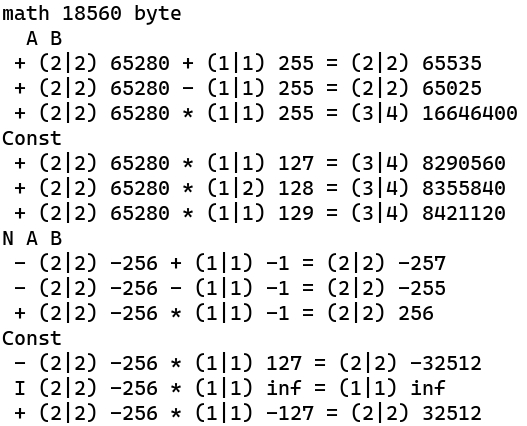
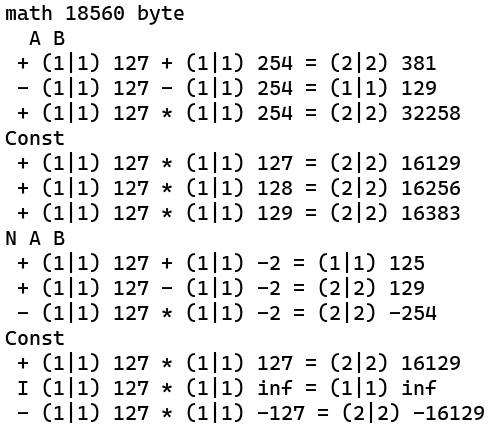
v13.8

Changed region(s): [[0.0, 0.0, 0.994, 1.0], [0.3313, 0.5798, 0.8735, 0.7629]]

diff --git a/math.c b/math.c
@@ -12,120 +12,110 @@ void FInit(anu x, anu y, an r, anu c, an a) { while(x--) *--r = 0;
   c = (c > y) ? y : c; while(c--) *r++ = *a++; }
 void FAddr(anu y, As* r, anu c, As* a) {
   c = (c > y) ? y : c; while(c--) *r++ = *a++; }
-void FSWAP(anu l, an r, an a) { Mat.a = a + l; Mat.r = r + l;
-  Mat.z = *a++; *r++ = (l) ? *Mat.a--:Mat.z; *Mat.r-- = Mat.z; l >>= 1;
-  while(l--) { Mat.z = *a++; *r++ = *Mat.a--; *Mat.r-- = Mat.z; } }
-void FNEG(anu l, an r) { Mat.z = 1; do { Mat.z = !(*r = ~*r + Mat.z); r++; } while(l--); }
-void FNEG2(anu l, an r, an a) { Mat.z = 1; do { Mat.z = !(*r++ = ~*a++ + Mat.z); } while(l--); }
+void FSWAP(anu l, an r, an a) { Mat.i = l; Mat.r = r; Mat.a = a; Mat.be = Mat.r + Mat.i;
+  Mat.ae = Mat.a + Mat.i; Mat.t = *Mat.a++; *Mat.r++ = Mat.i ? *Mat.ae--:Mat.t; *Mat.be-- = Mat.t;
+  Mat.i >>= 1; while(Mat.i--) { Mat.t = *Mat.a++; *Mat.r++ = *Mat.ae--; *Mat.be-- = Mat.t; } }
 
-anu FLD(an r, anu D) { *r = D; Mat.N = (Mat.Nim && (D & 128)) ? 255:0;
-  Mat.F = (D) ? (Mat.Nim && (D == 128)) ? 2:0:1; return 0; }
-anu FLVD(an r, anu Dl, anu Dh) { *r++ = Dl; *r = Dh; Mat.N = (Mat.Nim && (Dh & 128)) ? 255:0;
-  if ((Mat.F = (Dl | Dh) ? (!Dl && Mat.Nim && (Dh == 128)) ? 2:0:1)) { *--r = Dh; return 0; }
-  return (((Dl == 128) ? 1: (Mat.Nim) ? (((Dl^Mat.N)&128)|(Dh != Mat.N)):(Dh ? 1:0)) != 0); }
-anu FMOV(anu l, an r, an a) { Mat.F = 0; Mat.C = 0;
-  Mat.y = *(Mat.r = a + l); Mat.N = (Mat.Nim && (Mat.y & 128)) ? 255:0; Mat.z = l;
-  if (!Mat.y || (Mat.Nim && Mat.y == 128)) { Mat.a = a; while(l && !*Mat.a++) { l--; }
-    if ((Mat.F = l ? 0: Mat.y ? 2:1)) { *r = Mat.y; return 0; } l = Mat.z; }
-  while(((Mat.y = *Mat.r--) == Mat.N) && (Mat.Nim ? !((*Mat.r ^ Mat.N) & 128):1) && l) { l--; }
-  Mat.z = l; if (Mat.y != 128) Mat.y = 0; else { while(!*Mat.r-- && l) { l--; }
-    Mat.y = (Mat.C = (Mat.z == 255)) ? 0:l ? 0:1;
-    if ((Mat.F = (Mat.C && !l) << 1)) { *r = 128; return 0; } l = Mat.z; }
-  if (r < a) do *r++ = *a++; while(l--); else { Mat.r = (r += l + 1); Mat.a = (a += l + 1);
-    do *--Mat.r = *--Mat.a; while(l--); } if (Mat.y) { *r = Mat.N; Mat.z++; } return Mat.z; }
-anu FCOLD(anu f, anu l, an r, an a) { l = FMOV(l, r, a); Mat.z = ((Mat.x = l)) ? 2:1;
-  while((Mat.x >>= 1)) { Mat.z <<= 1; } Mat.r = r; r += l; Mat.x = --Mat.z - l; Mat.y = Mat.N;
+anu FMOV(anu l, an r, an a) { Mat.i = l; Mat.r = r; Mat.a = a;
+  Mat.F = 0; Mat.j = Mat.i; Mat.k = Mat.i; if (r < a) do *Mat.r++ = *Mat.a++; while(Mat.j--);
+  else { Mat.be = (Mat.r += Mat.i); Mat.ae = Mat.a + Mat.i; do *Mat.be-- = *Mat.ae--; while(Mat.j--); }
+  Mat.x = *--Mat.r; Mat.N = (Mat.Nim && (Mat.x & 128)) ? 255:0; while(Mat.i && !*--Mat.r) { Mat.i--; }
+  if (!Mat.i) { if (!Mat.x) Mat.F++; else if (Mat.Nim && Mat.x == 128) Mat.F = 2; } return Mat.k; }
+anu FCOLD(anu f, anu l, an r, an a) { l = FMOV(l, r, a); Mat.t = ((Mat.x = l)) ? 2:1;
+  while((Mat.x >>= 1)) { Mat.t <<= 1; } Mat.r = r; r += l; Mat.x = --Mat.t - l; Mat.y = Mat.N;
   if (Mat.F) { l = *r; *r = 0; Mat.y = 0; } while(Mat.x--) { *++r = Mat.y; } *r = Mat.F ? l:*r;
-  if (f) { FSWAP(Mat.z, Mat.r, Mat.r); } return Mat.z; }
+  if (f) { FSWAP(Mat.t, Mat.r, Mat.r); } return Mat.t; }
 anu FVI(anu f, an r, anu l, an c) { if (l--) { if (f) { FSWAP(l, r, c); return FMOV(l, r, r); }
     else return FMOV(l, r, c); } Mat.F = 1; Mat.N = 0; *r = 0; return 0; }
 
 void FADD(an r, an a, anu l, an b) { Mat.N = l; Mat.r = r; Mat.a = a; Mat.b = b; Mat.lb = Mat.N;
-  Mat.x = *(Mat.e = Mat.a + Mat.l); Mat.na = (Mat.Nim && (Mat.x & 128)) ? 255:0; Mat.F = Mat.l;
-  Mat.y = *(Mat.d = Mat.b + Mat.N); Mat.nb = (Mat.Nim && (Mat.y & 128)) ? 255:0; Mat.C = (Mat.C != 0);
-  while(*Mat.e-- == Mat.na && Mat.F && (Mat.Nim ? !((*Mat.e ^ Mat.na) & 128):1)) { Mat.F--; }  
-  while(*Mat.d-- == Mat.nb && Mat.N && (Mat.Nim ? !((*Mat.d ^ Mat.nb) & 128):1)) { Mat.N--; }
-  if (Mat.Nim) { if ((Mat.x == 128 && Mat.F == Mat.l) || (Mat.y == 128 && Mat.N == Mat.lb)) {
-      Mat.u = Mat.F; Mat.v = Mat.N; while(Mat.u-- && !*Mat.e--) { } while(Mat.v-- && !*Mat.d--) { } 
-      Mat.u++; Mat.v++; if (!(Mat.u && Mat.v)) { Mat.F = 2; Mat.N = 255; *Mat.r = 128; Mat.l = 0;
-        return; } } } Mat.l = (Mat.F > Mat.N) ? Mat.F:Mat.N; Mat.v = (Mat.F > Mat.N) ? Mat.N:Mat.F;
-  Mat.u = Mat.v++; Mat.F -= Mat.u; Mat.N -= Mat.u; Mat.d = Mat.b;
-  do { Mat.x = *Mat.a++; Mat.y = (*Mat.r++ = Mat.x + *Mat.d++ + Mat.C);
-    Mat.C = (Mat.x > Mat.y) || (Mat.C && Mat.y == Mat.x); } while(--Mat.v);
-  if (Mat.N) do { Mat.x = *Mat.d++; Mat.y = (*Mat.r++ = Mat.na + Mat.x + Mat.C);
+  Mat.x = *(Mat.ae = Mat.a + Mat.l); Mat.na = (Mat.Nim && (Mat.x & 128)) ? 255:0; Mat.F = Mat.l;
+  Mat.y = *(Mat.be = Mat.b + Mat.N); Mat.nb = (Mat.Nim && (Mat.y & 128)) ? 255:0; Mat.C = (Mat.C != 0);
+  while(*Mat.ae-- == Mat.na && Mat.F && (Mat.Nim ? !((*Mat.ae ^ Mat.na) & 128):1)) { Mat.F--; }  
+  while(*Mat.be-- == Mat.nb && Mat.N && (Mat.Nim ? !((*Mat.be ^ Mat.nb) & 128):1)) { Mat.N--; }
+  if (Mat.Nim) { if ((Mat.x == 128 && Mat.F == Mat.l) || (Mat.y == 128 && Mat.N == Mat.lb)) { Mat.i = Mat.F;
+      Mat.j = Mat.N; while(Mat.i && !*Mat.ae--) { Mat.i--; } while(Mat.j && !*Mat.be--) { Mat.j--; }
+      if (!(Mat.i && Mat.j)) { Mat.F = 2; Mat.N = 255; *Mat.r = 128; Mat.l = 0; return; } } }
+  Mat.l = (Mat.F > Mat.N) ? Mat.F:Mat.N; Mat.j = (Mat.F > Mat.N) ? Mat.N:Mat.F;
+  Mat.i = Mat.j++; Mat.F -= Mat.i; Mat.N -= Mat.i; Mat.e = Mat.b;
+  do { Mat.x = *Mat.a++; Mat.y = (*Mat.r++ = Mat.x + *Mat.e++ + Mat.C);
+    Mat.C = (Mat.x > Mat.y) || (Mat.C && Mat.y == Mat.x); } while(--Mat.j);
+  if (Mat.N) do { Mat.x = *Mat.e++; Mat.y = (*Mat.r++ = Mat.na + Mat.x + Mat.C);
     Mat.C = (Mat.x > Mat.y) || (Mat.C && Mat.y == Mat.x); } while(--Mat.N);
   else while(Mat.F--) { Mat.x = *Mat.a++; Mat.y = (*Mat.r++ = Mat.x + Mat.nb + Mat.C);
       Mat.C = (Mat.x > Mat.y) || (Mat.C && Mat.y == Mat.x); }
-  Mat.a = --Mat.r; Mat.v = Mat.l; while(Mat.v-- && !*--Mat.a) { } Mat.v++;
+  Mat.e = --Mat.r; Mat.j = Mat.l; while(Mat.j-- && !*--Mat.e) { } Mat.j++;
   Mat.N = (Mat.Nim && (Mat.y & 128)) ? 255:0;
-  if (Mat.Nim) Mat.C = ((!(Mat.na ^ Mat.nb) && (Mat.na ^ Mat.N)) || (!Mat.v && Mat.y == 128));
-  if (Mat.C && Mat.l != 255) { Mat.l++; Mat.v |= Mat.y; *++Mat.r = Mat.Nim ? Mat.N:Mat.C; Mat.C--; }
-  Mat.N = (Mat.Nim && (*Mat.r & 128)) ? 255:0; if ((Mat.F = !(Mat.v | *Mat.r))) Mat.l = 0; }
+  if (Mat.Nim) Mat.C = ((!(Mat.na ^ Mat.nb) && (Mat.na ^ Mat.N)) || (!Mat.j && Mat.y == 128));
+  if (Mat.C && Mat.l != 255) { Mat.l++; Mat.j |= Mat.y; *++Mat.r = Mat.Nim ? Mat.N:Mat.C; Mat.C--; }
+  Mat.N = (Mat.Nim && (*Mat.r & 128)) ? 255:0; if ((Mat.F = !(Mat.j | *Mat.r))) Mat.l = 0; }
+
 void FSUB(an r, an a, anu l, an b) { Mat.N = l; Mat.r = r; Mat.a = a; Mat.b = b; Mat.lb = Mat.N;
-  Mat.x = *(Mat.e = Mat.a + Mat.l); Mat.na = (Mat.Nim && (Mat.x & 128)) ? 255:0; Mat.F = Mat.l;
-  Mat.y = *(Mat.d = Mat.b + Mat.N); Mat.nb = (Mat.Nim && (Mat.y & 128)) ? 255:0; Mat.C = (Mat.C != 0);
-  while(*Mat.e-- == Mat.na && Mat.F && (Mat.Nim ? !((*Mat.e ^ Mat.na) & 128):1)) { Mat.F--; }  
-  while(*Mat.d-- == Mat.nb && Mat.N && (Mat.Nim ? !((*Mat.d ^ Mat.nb) & 128):1)) { Mat.N--; }
-  if (Mat.Nim) { if ((Mat.x == 128 && Mat.F == Mat.l) || (Mat.y == 128 && Mat.N == Mat.lb)) {
-      Mat.u = Mat.F; Mat.v = Mat.N; while(Mat.u-- && !*Mat.e--) { } while(Mat.v-- && !*Mat.d--) { } 
-      Mat.u++; Mat.v++; if (!(Mat.u && Mat.v)) { Mat.F = 2; Mat.N = 255; *Mat.r = 128; Mat.l = 0;
-        return; } } } Mat.l = (Mat.F > Mat.N) ? Mat.F:Mat.N; Mat.v = (Mat.F > Mat.N) ? Mat.N:Mat.F;
-  Mat.u = Mat.v++; Mat.F -= Mat.u; Mat.N -= Mat.u; Mat.d = Mat.b;
-  do { Mat.x = *Mat.a++; Mat.y = (*Mat.r++ = Mat.x - *Mat.d++ - Mat.C);
-    Mat.C = (Mat.x < Mat.y) || (Mat.C && Mat.y == Mat.x); } while(--Mat.v);
-  if (Mat.N) do { Mat.y = (*Mat.r++ = Mat.na - *Mat.d++ - Mat.C);
+  Mat.x = *(Mat.ae = Mat.a + Mat.l); Mat.na = (Mat.Nim && (Mat.x & 128)) ? 255:0; Mat.F = Mat.l;
+  Mat.y = *(Mat.be = Mat.b + Mat.N); Mat.nb = (Mat.Nim && (Mat.y & 128)) ? 255:0; Mat.C = (Mat.C != 0);
+  while(*Mat.ae-- == Mat.na && Mat.F && (Mat.Nim ? !((*Mat.ae ^ Mat.na) & 128):1)) { Mat.F--; }  
+  while(*Mat.be-- == Mat.nb && Mat.N && (Mat.Nim ? !((*Mat.be ^ Mat.nb) & 128):1)) { Mat.N--; }
+  if (Mat.Nim) { if ((Mat.x == 128 && Mat.F == Mat.l) || (Mat.y == 128 && Mat.N == Mat.lb)) { Mat.i = Mat.F;
+      Mat.j = Mat.N; while(Mat.i && !*Mat.ae--) { Mat.i--; } while(Mat.j && !*Mat.be--) { Mat.j--; }
+      if (!(Mat.i && Mat.j)) { Mat.F = 2; Mat.N = 255; *Mat.r = 128; Mat.l = 0; return; } } }
+  Mat.l = (Mat.F > Mat.N) ? Mat.F:Mat.N; Mat.j = (Mat.F > Mat.N) ? Mat.N:Mat.F;
+  Mat.i = Mat.j++; Mat.F -= Mat.i; Mat.N -= Mat.i; Mat.e = Mat.b;
+  do { Mat.x = *Mat.a++; Mat.y = (*Mat.r++ = Mat.x - *Mat.e++ - Mat.C);
+    Mat.C = (Mat.x < Mat.y) || (Mat.C && Mat.y == Mat.x); } while(--Mat.j);
+  if (Mat.N) do { Mat.y = (*Mat.r++ = Mat.na - *Mat.e++ - Mat.C);
     Mat.C = (Mat.na < Mat.y) || (Mat.C && Mat.y == Mat.na); } while(--Mat.N);
   else while(Mat.F--) { Mat.x = *Mat.a++; Mat.y = (*Mat.r++ = Mat.x - Mat.nb - Mat.C);
       Mat.C = (Mat.x < Mat.y) || (Mat.C && Mat.y == Mat.x); }
-  Mat.a = --Mat.r; Mat.v = Mat.l; while(Mat.v-- && !*--Mat.a) { } Mat.v++;
-  if (!Mat.Nim) { Mat.N = 0; if (Mat.C) { Mat.v = 1; Mat.N++; Mat.C--; } }
+  Mat.e = --Mat.r; Mat.j = Mat.l; while(Mat.j && !*--Mat.e) { Mat.j--; }
+  if (!Mat.Nim) { Mat.N = 0; if (Mat.C) { Mat.j = 1; Mat.N++; Mat.C--; } }
   else { Mat.N = (Mat.y & 128) ? 255:0;
-    Mat.C = (((Mat.na ^ Mat.nb) && (Mat.na ^ Mat.N)) || (!Mat.v && *r == 128)); 
-    if (Mat.C && Mat.l != 255) { Mat.l++; Mat.v |= Mat.y; Mat.N = ~Mat.N; *++Mat.r = Mat.N; Mat.C--; } }
-  if ((Mat.F = !(Mat.v | *Mat.r))) Mat.l = 0; }
+    Mat.C = (((Mat.na ^ Mat.nb) && (Mat.na ^ Mat.N)) || (!Mat.j && Mat.y == 128)); 
+    if (Mat.C && Mat.l != 255) { Mat.l++; Mat.j |= Mat.y; Mat.N = ~Mat.N; *++Mat.r = Mat.N; Mat.C--; } }
+  if ((Mat.F = !(Mat.j | *Mat.r))) Mat.l = 0; }
+
 void FMUL(an r, an a, anu l, an b) { Mat.N = l; Mat.r = r; Mat.a = a; Mat.b = b; Mat.lb = Mat.N;
-  Mat.x = *(Mat.e = Mat.a + Mat.l); Mat.na = (Mat.Nim && (Mat.x & 128)) ? 255:0; Mat.F = Mat.l;
-  Mat.y = *(Mat.d = Mat.b + Mat.N); Mat.nb = (Mat.Nim && (Mat.y & 128)) ? 255:0; Mat.C = (Mat.C != 0);
-  while(Mat.F && *Mat.e-- == Mat.na && (Mat.Nim ? !((*Mat.e ^ Mat.na) & 128):1)) { Mat.F--; }  
-  while(Mat.N && *Mat.d-- == Mat.nb && (Mat.Nim ? !((*Mat.d ^ Mat.nb) & 128):1)) { Mat.N--; }
+  Mat.x = *(Mat.ae = Mat.a + Mat.l); Mat.na = (Mat.Nim && (Mat.x & 128)) ? 255:0; Mat.F = Mat.l;
+  Mat.y = *(Mat.be = Mat.b + Mat.N); Mat.nb = (Mat.Nim && (Mat.y & 128)) ? 255:0; Mat.C = (Mat.C != 0);
+  while(Mat.F && *Mat.ae-- == Mat.na && (Mat.Nim ? !((*Mat.ae ^ Mat.na) & 128):1)) { Mat.F--; }  
+  while(Mat.N && *Mat.be-- == Mat.nb && (Mat.Nim ? !((*Mat.be ^ Mat.nb) & 128):1)) { Mat.N--; }
   if (!(Mat.x | Mat.F) || !(Mat.y | Mat.N)) { Mat.F = 1; Mat.N = 0; *r = 0; Mat.l = 0; Mat.C = 0; return; }
-  Mat.d = Mat.b; Mat.u = Mat.F; Mat.v = Mat.N; Mat.w = Mat.F; Mat.w += Mat.N; Mat.w++; Mat.z = 0;
-  while(!*Mat.a && Mat.F) { Mat.a++; Mat.F--; } while(!*Mat.d && Mat.N) { Mat.d++; Mat.N--; }
-  if (Mat.Nim) { if (!Mat.N && Mat.y == 128 && Mat.lb == Mat.v) Mat.z++;
-    if (Mat.z || (!Mat.F && Mat.x == 128 && Mat.l == Mat.u)) Mat.z++; } if (Mat.z || (Mat.u > Mat.w)) {
-    Mat.F = 2; Mat.N = 255; *r = 128; Mat.l = 0; Mat.C = !Mat.z; return; }
-  Mat.l = Mat.w; Mat.u -= Mat.F; Mat.v -= Mat.N; Mat.u += Mat.v; Mat.g = &Mat.Hi.l; Mat.e = &Mat.Lo.l;
-  if (Mat.F > Mat.N) { Mat.v = Mat.F; if (Mat.na) {
-      Mat.z = 1; do Mat.z = !(*Mat.g++ = ~*Mat.a++ + Mat.z); while(Mat.v--); }
-    else do *Mat.g++ = *Mat.a++; while(Mat.v--);
-    Mat.v = Mat.N; if (Mat.nb) { Mat.z = 1; do Mat.z = !(*Mat.e++ = ~*Mat.d++ + Mat.z); while(Mat.v--); }
-    else do *Mat.e++ = *Mat.d++; while(Mat.v--); } else { Mat.v = Mat.N; Mat.N = Mat.F; Mat.F = Mat.v;
-    if (Mat.nb) { Mat.z = 1; do Mat.z = !(*Mat.g++ = ~*Mat.d++ + Mat.z); while(Mat.v--); }
-    else do *Mat.g++ = *Mat.d++; while(Mat.v--);
-    Mat.v = Mat.N; if (Mat.na) { Mat.z = 1; do Mat.z = !(*Mat.e++ = ~*Mat.a++ + Mat.z); while(Mat.v--); }
-    else do *Mat.e++ = *Mat.a++; while(Mat.v--); } *Mat.e = 0; Mat.N++; Mat.g = Mat.r; Mat.g += Mat.u;
-  Mat.e = Mat.r; *Mat.e++ = Mat.C; Mat.v = Mat.l; do *Mat.e++ = 0; while(Mat.v--); Mat.e = &Mat.Hi.l;
-  do { if ((Mat.u = *Mat.e++)) {
-         Mat.a = &Mat.Sr.l; Mat.d = &Mat.Lo.l; Mat.v = Mat.N; do *Mat.a++ = *Mat.d++; while(Mat.v--);
-         do { Mat.z = 0; Mat.d = &Mat.Sr.l; Mat.v = Mat.N;
-           if (!(Mat.u & 1)) { do { Mat.w = *Mat.d; *Mat.d++ = (Mat.w << 1) | Mat.z;
-               Mat.z = (Mat.w & 128) ? 1:0; } while(Mat.v--); } else { Mat.a = Mat.g; Mat.C = 0;
-               do { Mat.w = *Mat.d; Mat.x = *Mat.a; Mat.y = (*Mat.a++ = (Mat.x + Mat.w + Mat.C));
+  Mat.be = Mat.b; Mat.i = Mat.F; Mat.j = Mat.N; Mat.k = Mat.F; Mat.k += Mat.N; Mat.k++; Mat.t = 0;
+  while(!*Mat.a && Mat.F) { Mat.a++; Mat.F--; } while(!*Mat.be && Mat.N) { Mat.be++; Mat.N--; }
+  if (Mat.Nim) { if (!Mat.N && Mat.y == 128 && Mat.lb == Mat.j) Mat.t++;
+    if (Mat.t || (!Mat.F && Mat.x == 128 && Mat.l == Mat.i)) Mat.t++; } if (Mat.t || (Mat.i > Mat.k)) {
+    Mat.F = 2; Mat.N = 255; *r = 128; Mat.l = 0; Mat.C = !Mat.t; return; }
+  Mat.l = Mat.k; Mat.i -= Mat.F; Mat.j -= Mat.N; Mat.i += Mat.j; Mat.e = &Mat.H.l; Mat.ae = &Mat.L.l;
+  if (Mat.F > Mat.N) { Mat.j = Mat.F; if (Mat.na) { Mat.t = 1;
+      do Mat.t = !(*Mat.e++ = ~*Mat.a++ + Mat.t); while(Mat.j--); }
+    else do *Mat.e++ = *Mat.a++; while(Mat.j--);
+    Mat.j = Mat.N; if (Mat.nb) { Mat.t = 1; do Mat.t = !(*Mat.ae++ = ~*Mat.be++ + Mat.t); while(Mat.j--); }
+    else do *Mat.ae++ = *Mat.be++; while(Mat.j--); } else { Mat.j = Mat.N; Mat.N = Mat.F; Mat.F = Mat.j;
+    if (Mat.nb) { Mat.t = 1; do Mat.t = !(*Mat.e++ = ~*Mat.be++ + Mat.t); while(Mat.j--); }
+    else do *Mat.e++ = *Mat.be++; while(Mat.j--);
+    Mat.j = Mat.N; if (Mat.na) { Mat.t = 1; do Mat.t = !(*Mat.ae++ = ~*Mat.a++ + Mat.t); while(Mat.j--); }
+    else do *Mat.ae++ = *Mat.a++; while(Mat.j--); } *Mat.ae = 0; Mat.N++; Mat.e = Mat.r; Mat.e += Mat.i;
+  Mat.ae = Mat.r; *Mat.ae++ = Mat.C; Mat.j = Mat.l; do *Mat.ae++ = 0; while(Mat.j--); Mat.ae = &Mat.H.l;
+  do { if ((Mat.i = *Mat.ae++)) {
+         Mat.a = &Mat.S.l; Mat.be = &Mat.L.l; Mat.j = Mat.N; do *Mat.a++ = *Mat.be++; while(Mat.j--);
+         do { Mat.t = 0; Mat.be = &Mat.S.l; Mat.j = Mat.N;
+           if (!(Mat.i & 1)) { do { Mat.k = *Mat.be; *Mat.be++ = (Mat.k << 1) | Mat.t;
+               Mat.t = (Mat.k & 128) ? 1:0; } while(Mat.j--); } else { Mat.a = Mat.e; Mat.C = 0;
+               do { Mat.k = *Mat.be; Mat.x = *Mat.a; Mat.y = (*Mat.a++ = (Mat.x + Mat.k + Mat.C));
                  Mat.C = (Mat.x > Mat.y) || (Mat.C && Mat.x == Mat.y);
-             *Mat.d++ = (Mat.w << 1) | Mat.z; Mat.z = (Mat.w & 128) ? 1:0; } while(Mat.v--); }
-         } while(Mat.u >>= 1); } Mat.g++; } while(Mat.F--);
-  Mat.F++; Mat.N = Mat.na ^ Mat.nb; if (Mat.N) { Mat.v = Mat.l; Mat.g = Mat.r; Mat.z = 1;
-    do { Mat.z = !(*Mat.g = ~*Mat.g + Mat.z); Mat.g++; } while(Mat.v--); } Mat.g = Mat.r + Mat.l;
-  while(*Mat.g-- == Mat.N  && Mat.l && (Mat.Nim ? !((*Mat.g ^ Mat.N) & 128):1)) { Mat.l--; }
-  if (*++Mat.g != 128) { return; } Mat.d = Mat.g; Mat.v = Mat.l; while(Mat.v && !*--Mat.g) { Mat.v--; }
-  if (Mat.v) { return; } if (Mat.l != 255) { Mat.l++; *++Mat.d = Mat.N; return; }
+             *Mat.be++ = (Mat.k << 1) | Mat.t; Mat.t = (Mat.k & 128) ? 1:0; } while(Mat.j--); }
+         } while(Mat.i >>= 1); } Mat.e++; } while(Mat.F--); Mat.F++; Mat.N = Mat.na ^ Mat.nb;
+  if (Mat.N) { Mat.j = Mat.l; Mat.e = Mat.r; Mat.t = 1;
+    do { Mat.t = !(*Mat.e = ~*Mat.e + Mat.t); Mat.e++; } while(Mat.j--); } Mat.e = Mat.r + Mat.l;
+  while(*Mat.e-- == Mat.N  && Mat.l && (Mat.Nim ? !((*Mat.e ^ Mat.N) & 128):1)) { Mat.l--; }
+  if (*++Mat.e != 128) { return; } Mat.be = Mat.e; Mat.j = Mat.l; while(Mat.j && !*--Mat.e) { Mat.j--; }
+  if (Mat.j) { return; } if (Mat.l != 255) { Mat.l++; *++Mat.be = Mat.N; return; }
   Mat.F = 2; Mat.N = 255; Mat.l = 0; *Mat.r = 128; }
 
 void FDIV(an r, an e, an a, anu l, an b) { Mat.N = l; Mat.r = r; Mat.a = a; Mat.b = b; Mat.lb = Mat.N;
-  Mat.x = *(Mat.e = Mat.a + Mat.l); Mat.na = (Mat.Nim && (Mat.x & 128)) ? 255:0; Mat.F = Mat.l;
-  Mat.y = *(Mat.d = Mat.b + Mat.N); Mat.nb = (Mat.Nim && (Mat.y & 128)) ? 255:0; Mat.C = (Mat.C != 0);
-  while(Mat.F && *Mat.e-- == Mat.na && (Mat.Nim ? !((*Mat.e ^ Mat.na) & 128):1)) { Mat.F--; }  
-  while(Mat.N && *Mat.d-- == Mat.nb && (Mat.Nim ? !((*Mat.d ^ Mat.nb) & 128):1)) { Mat.N--; }
+  Mat.x = *(Mat.ae = Mat.a + Mat.l); Mat.na = (Mat.Nim && (Mat.x & 128)) ? 255:0; Mat.F = Mat.l;
+  Mat.y = *(Mat.be = Mat.b + Mat.N); Mat.nb = (Mat.Nim && (Mat.y & 128)) ? 255:0; Mat.C = (Mat.C != 0);
+  while(Mat.F && *Mat.ae-- == Mat.na && (Mat.Nim ? !((*Mat.ae ^ Mat.na) & 128):1)) { Mat.F--; }  
+  while(Mat.N && *Mat.be-- == Mat.nb && (Mat.Nim ? !((*Mat.be ^ Mat.nb) & 128):1)) { Mat.N--; }
   (void)e; }
 
 void FADDc(an r, an a, anu l, an c) { if (l--) { FADD(r, a, l, c); return; } Mat.l = FMOV(Mat.l, r, a); }

diff --git a/math.h b/math.h
@@ -14,7 +14,7 @@
 // [{0..0} 0 ] Нет энергии - состояние {нет пары} находится в любом представлении чисел
 // [{0..0}128] Бесконечность - состояние {нет пары} находится только в знаковом представлении
 // Mat.Nim      [00/XX] {без знаковое/знаковое} представление чисел
-// Mat.V        [00/XX] Возможность увеличения разрядности результата по мере необходимости
+// Mat.V        [00/XX] Зарет увеличения разрядности результата
 // Mat.C        [00/XX] {нет переноса/перенос}
 // Mat.F{Fe}    [0,1,2] {0}число/состояние{{1}не бытиё,{2}бесконечность} результата{остатка}
 // Mat.N{Ne}    [00/XX] для чисел без знаковое или положительное{00} иначе {FF}отрицательное
@@ -22,21 +22,17 @@
 // Mat.le       [0.255] длина остатка e
 // Mat.lb       [0.255] длина последнего обработанного второго операнда
 // Mat.b        адрес последнего обработанного второго операнда
-// Mat.Nim, Mat.V, Mat.R{EABDG} не подлежат изменению внутри функций
+// Mat.Nim, Mat.V, Mat.R{EAB} не подлежат изменению внутри функций
 typedef uintptr_t As;                           // основа, разрядность процессора
 typedef uint8_t anu;                            // атом, минимальная единица
 typedef anu* an;                                // число, начальный адрес расположения
 typedef struct { anu l, m[254], h; } MatBuf;    // 256 атомов
 typedef struct { anu Nim, V, l, lb, le, C, F, N, Fe, Ne,  // Fset({Nim{,V{,la{,lb}}}});
-  na, nb, u, v, w, x, y, z; MatBuf Hi, Lo, Sr;            // Flong({la{,lb}});
-  an R, E, A, B, D, G, r, e, a, b, d, g; } Math;// Структура реализации автомата
+  na, nb, x, y, i, j, k, t; MatBuf H, L, S;               // Flong({la{,lb}});
+  an R, E, A, B, r, e, a, b, ae, be; } Math;    // Структура реализации автомата
 void FInit(anu x, anu y, an r, anu c, an a);    // Fini({Nim{,V{,la{,lb}}}}); Nim=V=l=lb..Ne=0
 void FAddr(anu y, As* r, anu c, As* a);         // Faddr({(As)r{,(As)e{,(As)a{,(As)b}}}});
 void FSWAP(anu l, an r, an a);                  // Зеркалирование атомов длиной l относительно центра
-void FNEG(anu l, an r);                         // Дополнительный код числа, инверсия плюс один
-void FNEG2(anu l, an r, an a);                  // Копирование числа в дополнительный код
-anu FLD(an r, anu D);                           // Создание числа из атома
-anu FLVD(an r, anu Dl, anu Dh);                 // Создание числа из двух атомов и автонормализация
 anu FMOV(anu l, an r, an a);                    // Копирование числа и автонормализация
 anu FCOLD(anu f, anu l, an r, an a);            // Приведение к формату l = 1,2,4,8,16,32,64,128,256
 anu FVI(anu f, an r, anu l, an c);              // Копирование из константы в переменную на выходе l
@@ -52,13 +48,11 @@ extern Math Mat;
 #define MATH_CACHE_INIT Math Mat = {0};
 #define Anu(...) (anu)(sizeof((anu[]){0, ##__VA_ARGS__})-1), (anu[]){0, ##__VA_ARGS__}+1
 #define Adr(...) (anu)((sizeof((As[]){0, ##__VA_ARGS__})/sizeof(As))-1), (As[]){0, ##__VA_ARGS__}+1
-#define Faddr(...) FAddr(6, (As*)&Mat.R, Adr(__VA_ARGS__))
+#define Faddr(...) FAddr(4, (As*)&Mat.R, Adr(__VA_ARGS__))
 #define Fset(...) FInit(0, 4, &Mat.Nim, Anu(__VA_ARGS__))
 #define Fini(...) FInit(10, 4, &Mat.na, Anu(__VA_ARGS__))
 #define Flong(...) FInit(0, 2, &Mat.l, Anu(__VA_ARGS__))
 #define Fswap(l, x) FSWAP(l, x, x)
-#define Fld(D) FLD(Mat.A, D)
-#define Flvd(Dl, Dh) FLVD(Mat.A, Dl, Dh)
 #define Fmov(l, x) FMOV(l, x, x)
 #define Fcold(f, l, x) FCOLD(f, l, x, x)
 #define Fvar(f, r,...) FVI(f, r, Anu(__VA_ARGS__))

diff --git a/main.c b/main.c
@@ -23,10 +23,10 @@ void Show(char s) { Flong(la,lb); Mat.C = 0;
   else { FMulc(127); } printf("%c%c ", Mat.C ? 'C':' ', Mat.F ? (Mat.N ? 'I':'Z') : (Mat.N ? '-':'+'));
   Num(la, Mat.A); if (s == 'c') printf("* "); else { printf("%c ", s); } Num(Mat.lb, Mat.b); printf("= "); Num(Mat.l, Mat.R);
   if (s == '/') { printf("  %c ", Mat.Fe ? (Mat.Ne ? 'I':'Z') : (Mat.Ne ? '-':'+')); Num(Mat.le, Mat.E); } printf("\n"); }
-void Const(void) { anu l, i = 2; printf("Const\n"); Show('c'); Mat.D = Mat.B;
-  Mat.B = Mat.b; l = lb; lb = Mat.lb; while(i--) { (*Mat.B)++; Show('*'); } Mat.B = Mat.D; lb = l; }
+void Const(void) { an sb; anu l, i = 2; printf("Const\n"); Show('c'); sb = Mat.B;
+  Mat.B = Mat.b; l = lb; lb = Mat.lb; while(i--) { (*Mat.B)++; Show('*'); } Mat.B = sb; lb = l; }
 void Test(void) { printf("%c A B\n", Mat.Nim ? 'N':' '); Show('+'); Show('-'); Show('*'); /*Show('/');*/Const(); }
 
 int main(void) { anu a[m], b[m], e[m], r[m+m]; Faddr((As)r, (As)e, (As)a, (As)b);
-  Fini(); la = Fbvi(Mat.A, 255,0); lb = Fvi(Mat.B, 255); Test();
+  Fini(); la = Fbvi(Mat.A, 127); lb = Fvi(Mat.B, 254); Test();
   Fset(1); la = Fmov(la, Mat.A); lb = Fmov(lb, Mat.B); Test(); return 0; }
